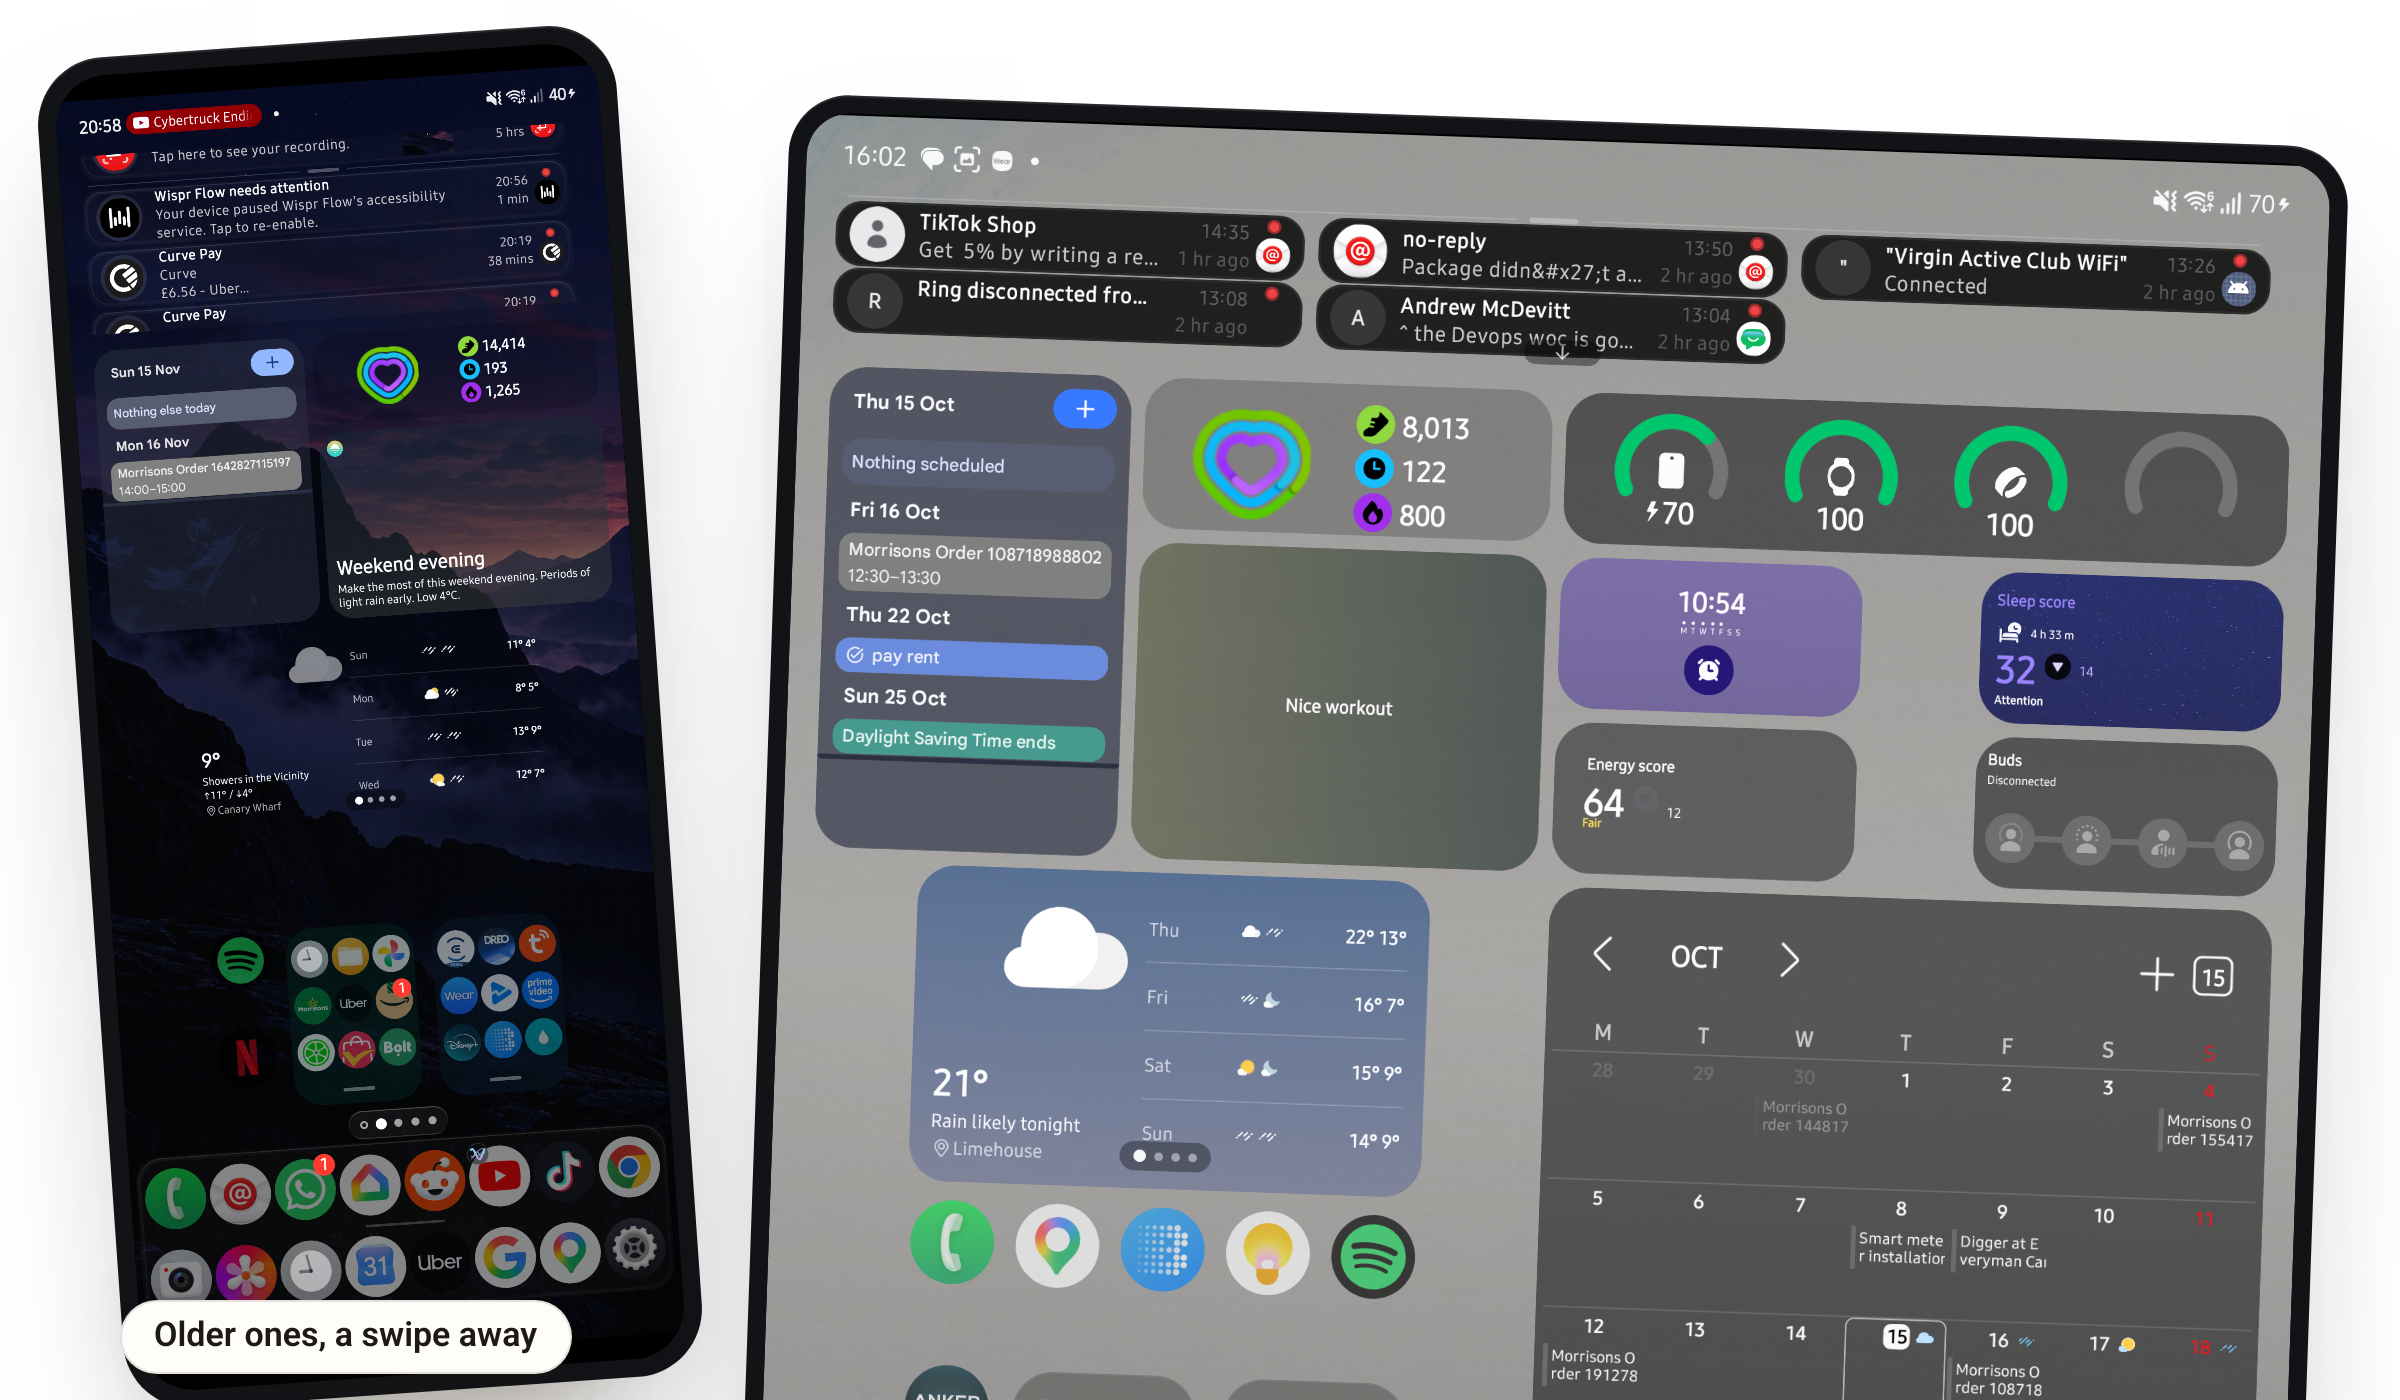
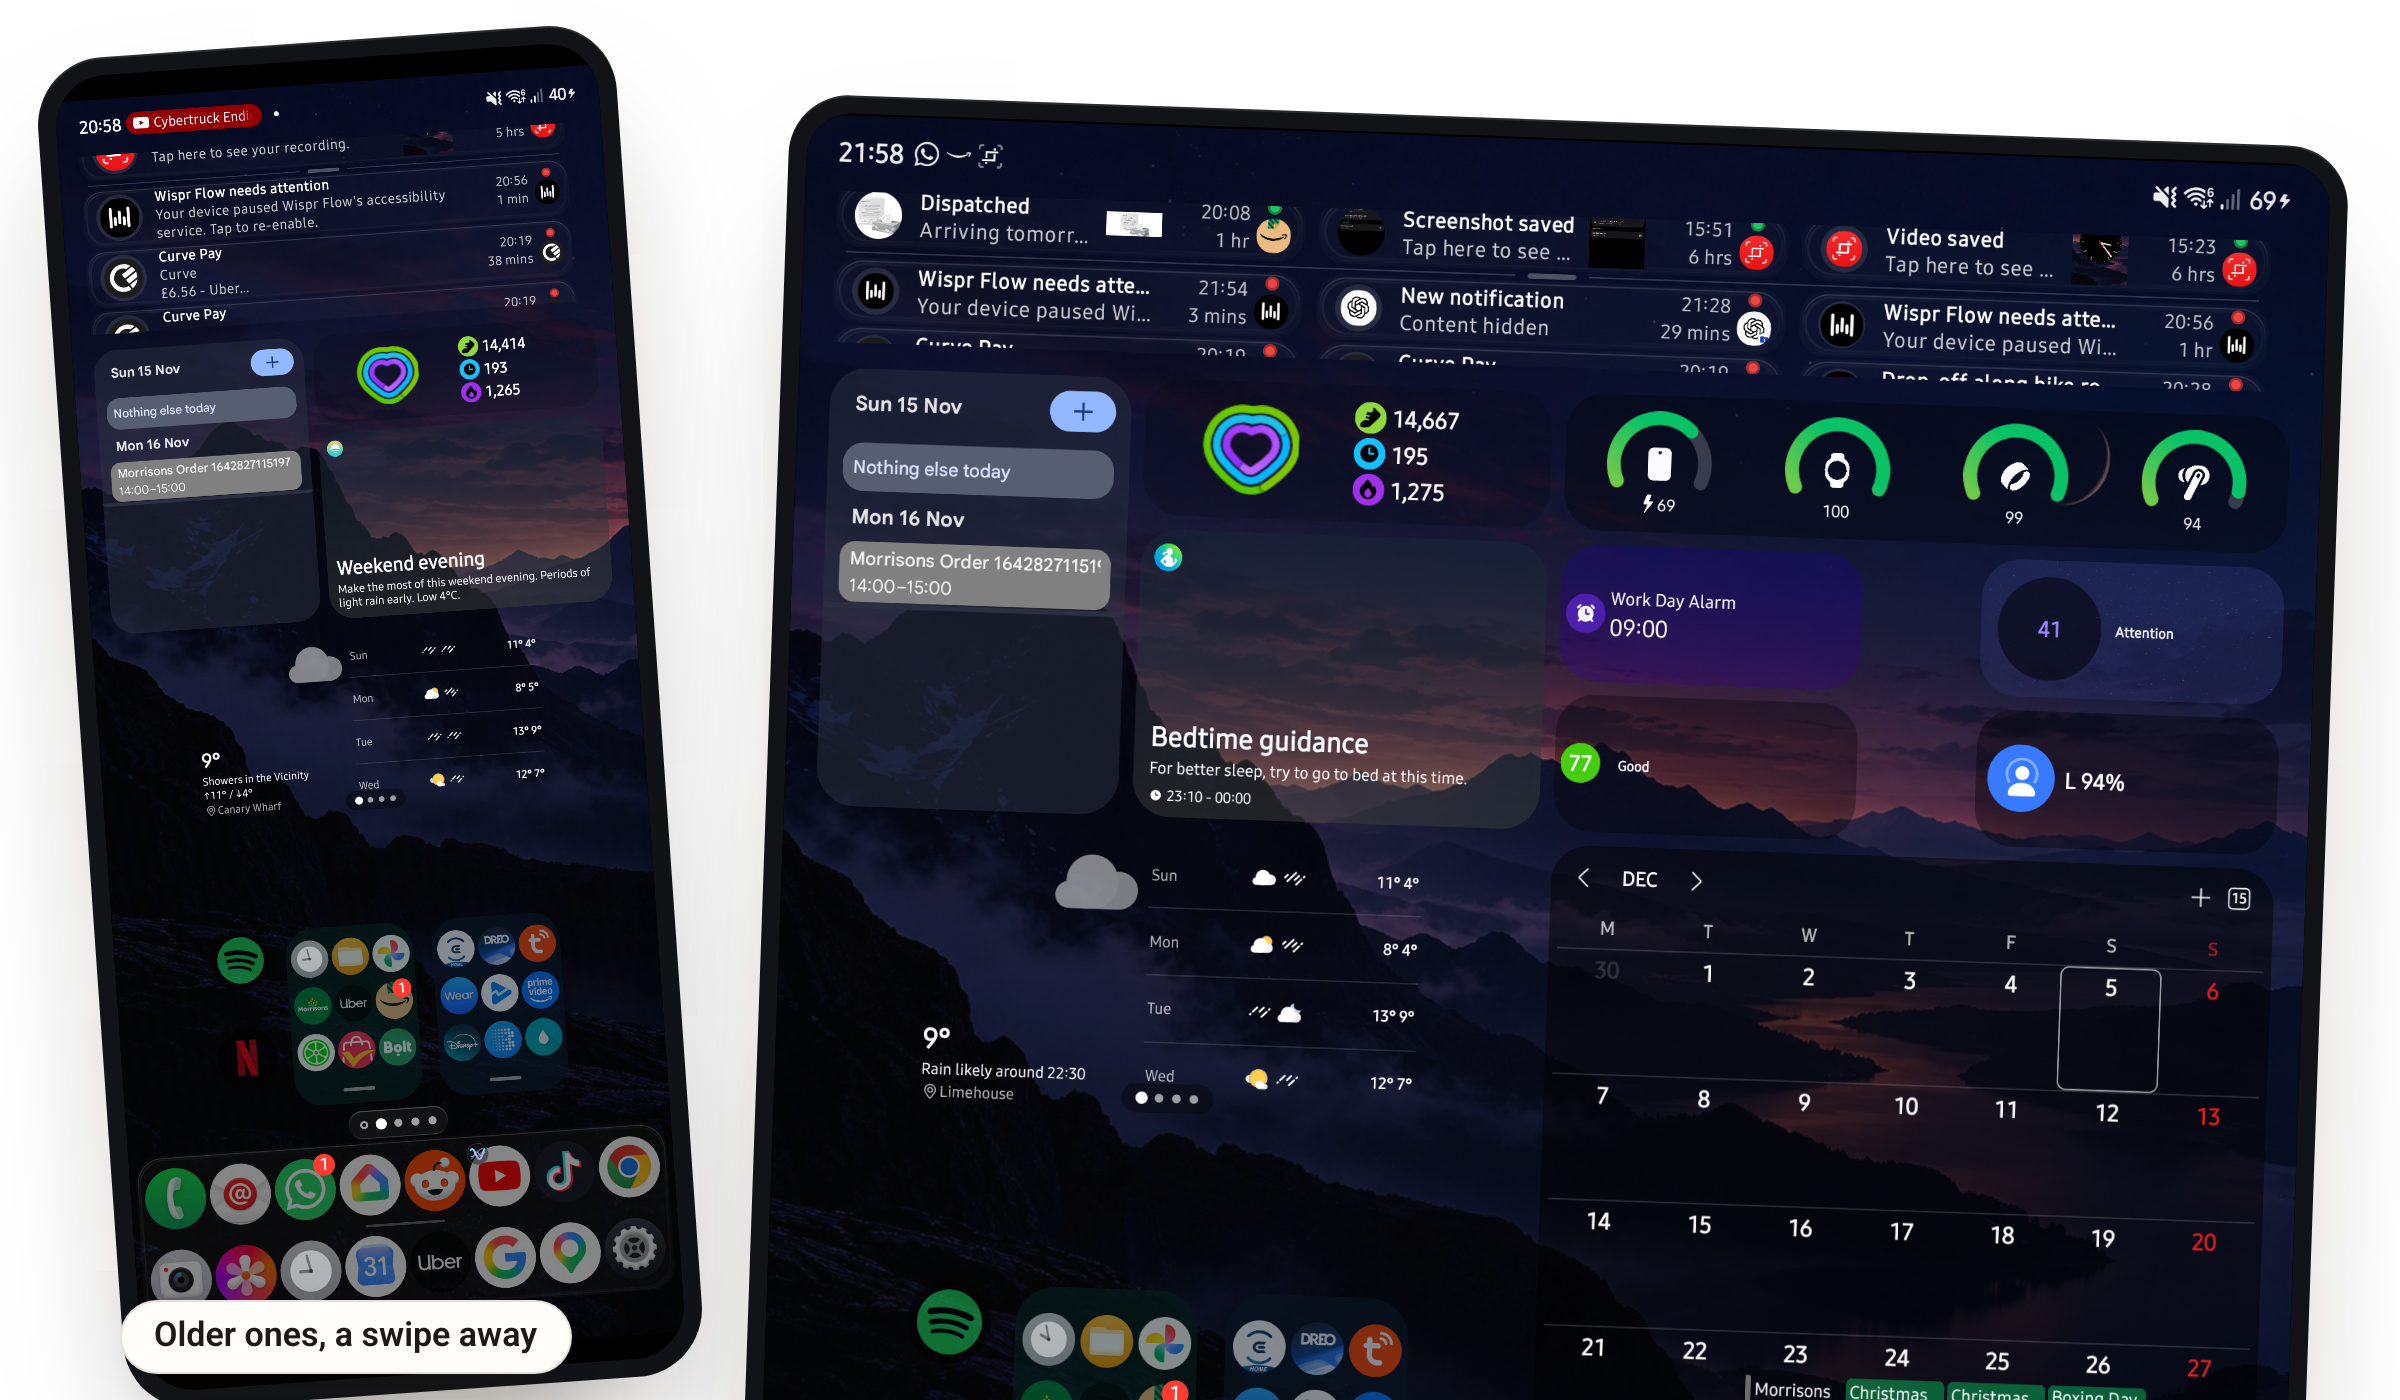
Site: 15 Nov inner-screen captures on every open-screen slot
Pictures (inner screen 1968x2184, Arcadia 0.2105, Kashim's Fold 15 Nov 21:54-22:01, used as captured, nothing blurred):
- device-foldable.png <- o03 (Home page 1) in the same CSS device frame as 15 Oct (1403x1571, screen at 42/46,
  hinge line, knobs). o03 rather than o01: o01 is the same page with another app's system toast across the strip
- home-open.png <- o03, 1190x1321 as before; #fold's cover picture goes back to home-cover.png (c01), whose
  grid is the left half of o03, so "Nothing moved" is true of the 15 Nov pair; home-cover-20261015.png removed
- panel-google-home-open.png <- o04 (the dock's Google Home panel held, live controls and scenes), 1968x2184
- notifications-strip.png <- o03, the two card rows (1968x203 from y 72, scaled to 1190x123 as before)
- group-notifications.png: open half <- o03, same geometry and tag

Alt texts now describe what the new pictures show (hero foldable, hero cover, #fold pair, strip).

diff --git a/index.html b/index.html
@@ -97,13 +97,13 @@
 
     <div class="hero-devices reveal delay-2">
       <figure class="dev fold">
-        <img src="assets/device-foldable.png" alt="An unfolded foldable phone running Arcadia: notifications across the top, then calendar, activity, weather and a full month view, with folders and a dock below">
+        <img src="assets/device-foldable.png" alt="An unfolded foldable phone running Arcadia: notification cards across the top, then the day's agenda, activity, device batteries, an alarm, a weather forecast and a full month calendar, with large folders and the dock below">
       </figure>
       <figure class="dev bar demo" aria-label="Holding an icon on the home screen opens that app's panel, with its shortcuts listed, without opening the app">
         <span class="phone">
         <img class="shell" src="assets/phone-shell.png" alt="">
         <span class="screen">
-          <img class="home" src="assets/home-cover.png" alt="An ordinary phone running Arcadia: notifications across the top, then device batteries, the next alarm and a month calendar above a two-row dock">
+          <img class="home" src="assets/home-cover.png" alt="An ordinary phone running Arcadia: notifications across the top, then the day's agenda, activity rings, weather and two large folders above a two-row dock">
           <span class="press" aria-hidden="true"></span>
           <img class="panel" src="assets/overlay-shortcuts.png" alt="" aria-hidden="true">
           <!-- The whole pitch is a gesture, and until now the page only played it at you.
@@ -201,7 +201,7 @@
     </header>
 
     <figure class="strip-shot glow reveal">
-      <img src="assets/notifications-strip.png" alt="The top of the home screen: six notification cards side by side, each with the sender's picture, their message and the time it arrived">
+      <img src="assets/notifications-strip.png" alt="The top of the home screen: six notification cards in two rows of three, each with its picture, its message and the time it arrived">
       <figcaption>The top of the home screen. Six across the open screen, fewer on the cover screen, oldest dropping off the end.</figcaption>
     </figure>
     <figure class="group-shot reveal">
@@ -238,9 +238,9 @@
       </p>
     </header>
     <div class="screen-pair reveal">
-      <figure class="glow cover"><img src="assets/home-cover-20261015.png" alt="The cover screen showing one half of the home grid: a stacked calendar, activity rings, weather and two folders">
+      <figure class="glow cover"><img src="assets/home-cover.png" alt="The cover screen showing one half of the home grid: the day's agenda, activity rings, weather and two large folders">
         <figcaption>Folded — the cover screen shows one half of the grid.</figcaption></figure>
-      <figure class="glow open"><img src="assets/home-open.png" alt="The inner screen showing both halves of the same home grid at once: calendar, activity, device batteries, sleep and energy widgets, a weather panel and a full month calendar">
+      <figure class="glow open"><img src="assets/home-open.png" alt="The inner screen showing both halves of the same home grid at once: the agenda, activity, weather and large folders on the left, device batteries, an alarm and a full month calendar on the right">
         <figcaption>Unfolded — the same grid with both halves on screen. Nothing moved.</figcaption></figure>
     </div>
   </section>
